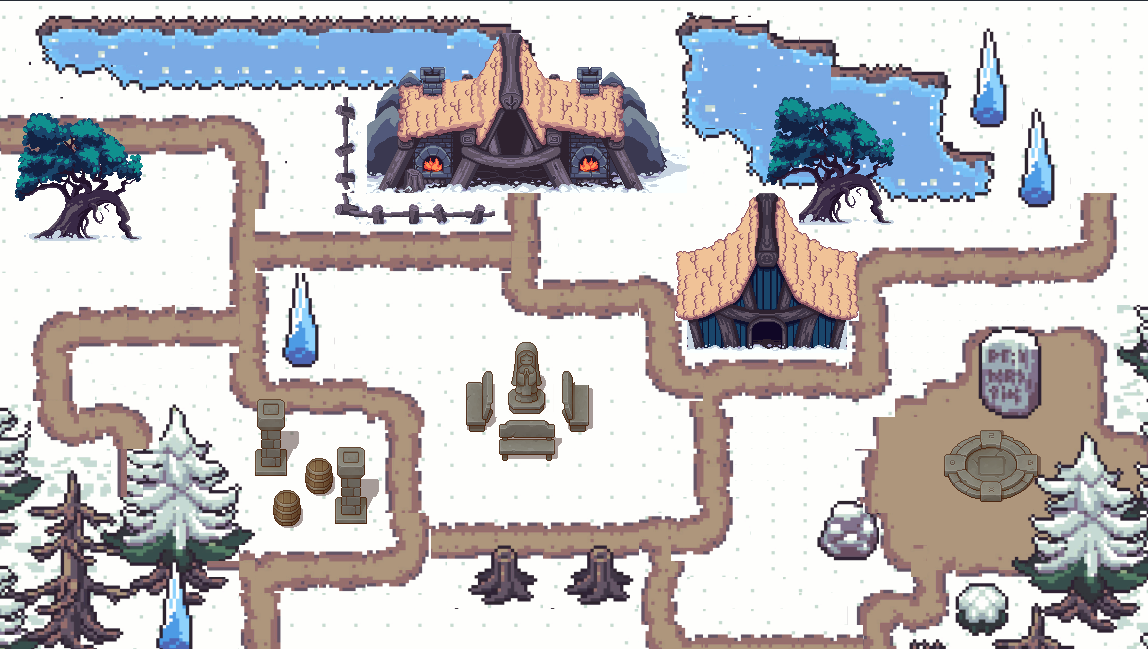
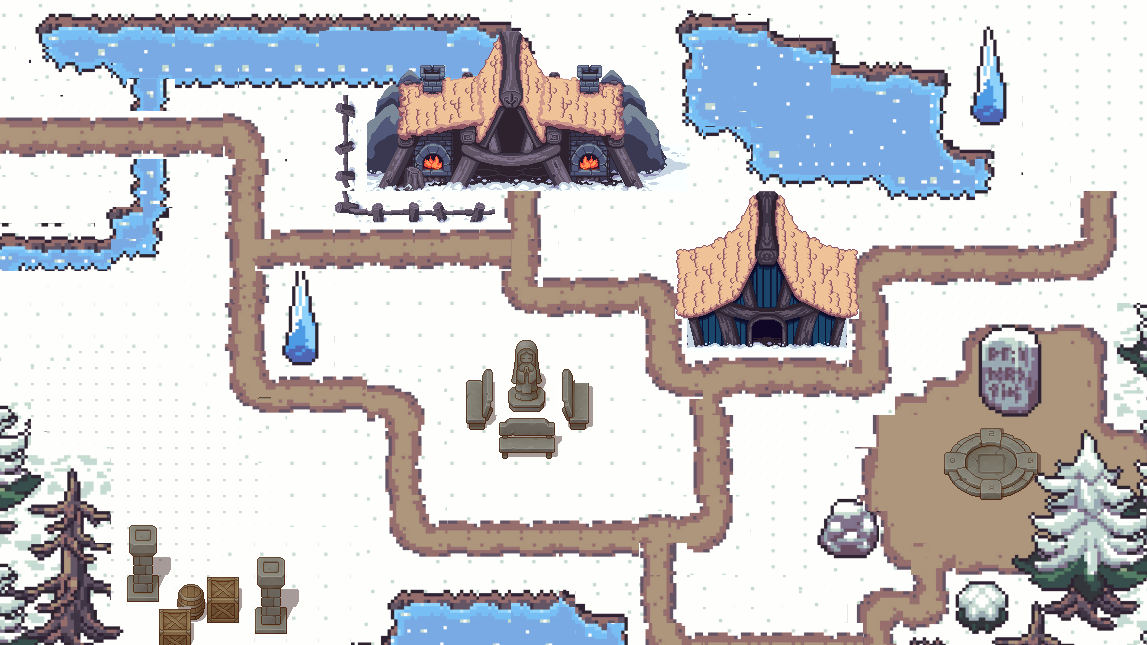
Terceira fase com o boss

diff --git a/main/js/game.js b/main/js/game.js
@@ -12,7 +12,8 @@ window.addEventListener("resize", resizeCanvas);
 // FUNDO DO JOGO
 const backgrounds = [
   { image: new Image(), src: "assets/background.png" },  // fase 1
-  { image: new Image(), src: "assets/background2.png" }  // fase 2
+  { image: new Image(), src: "assets/background2.png" },  // fase 2
+  { image: new Image(), src: "assets/background3.png" }   // fase 3
 ];
 let currentBackground = 0;
 backgrounds.forEach(bg => bg.image.src = bg.src);
@@ -46,6 +47,7 @@ const player = {
 const portalConfigs = [
   { x: canvas.width - 120, y: 70 },                             // Fase 1
   { x: canvas.width / 2 - 64, y: canvas.height - 140 },         // Fase 2
+  { x: 80, y: canvas.height / 2 - 64 }                           // fase 3
 ];
 
 const portal = {
@@ -340,6 +342,25 @@ const bosses = [
     attackCooldown: 1000, // 1 segundo entre ataques
     lastAttackTime: 0,
 },
+  {
+    x: canvas.width - 240, 
+    y: 450 - 100 / 2,
+    width: 80,
+    height: 140,
+    color: "crimson", // cor diferente pro boss da fase 2
+    speed: 1.6,
+    maxHealth: 250,
+    currentHealth: 250,
+    isActive: false,
+    dead: false,
+    attackCooldown: 1000, // 1 segundo entre ataques
+    lastAttackTime: 0,
+    isAttacking: false,
+    attackDuration: 400, // tempo visível de ataque
+    attackCooldown: 1000, // 1 segundo entre ataques
+    lastAttackTime: 0,
+  },
+
 
 ];
 const specialStone = {
